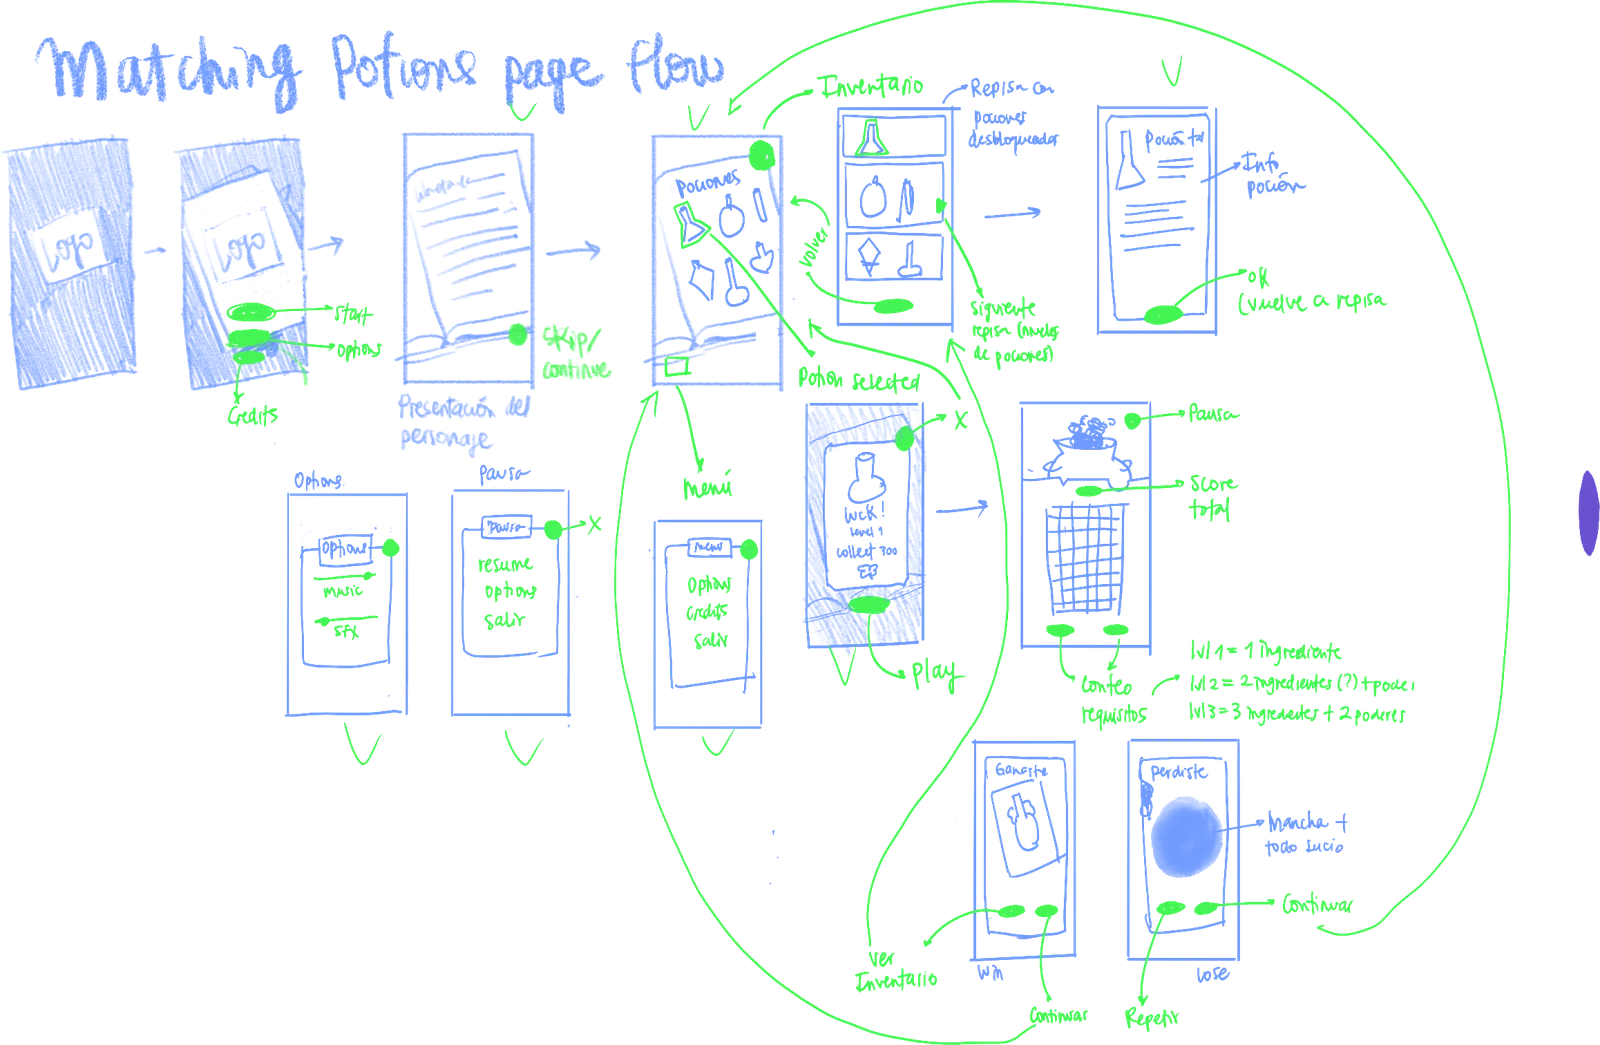
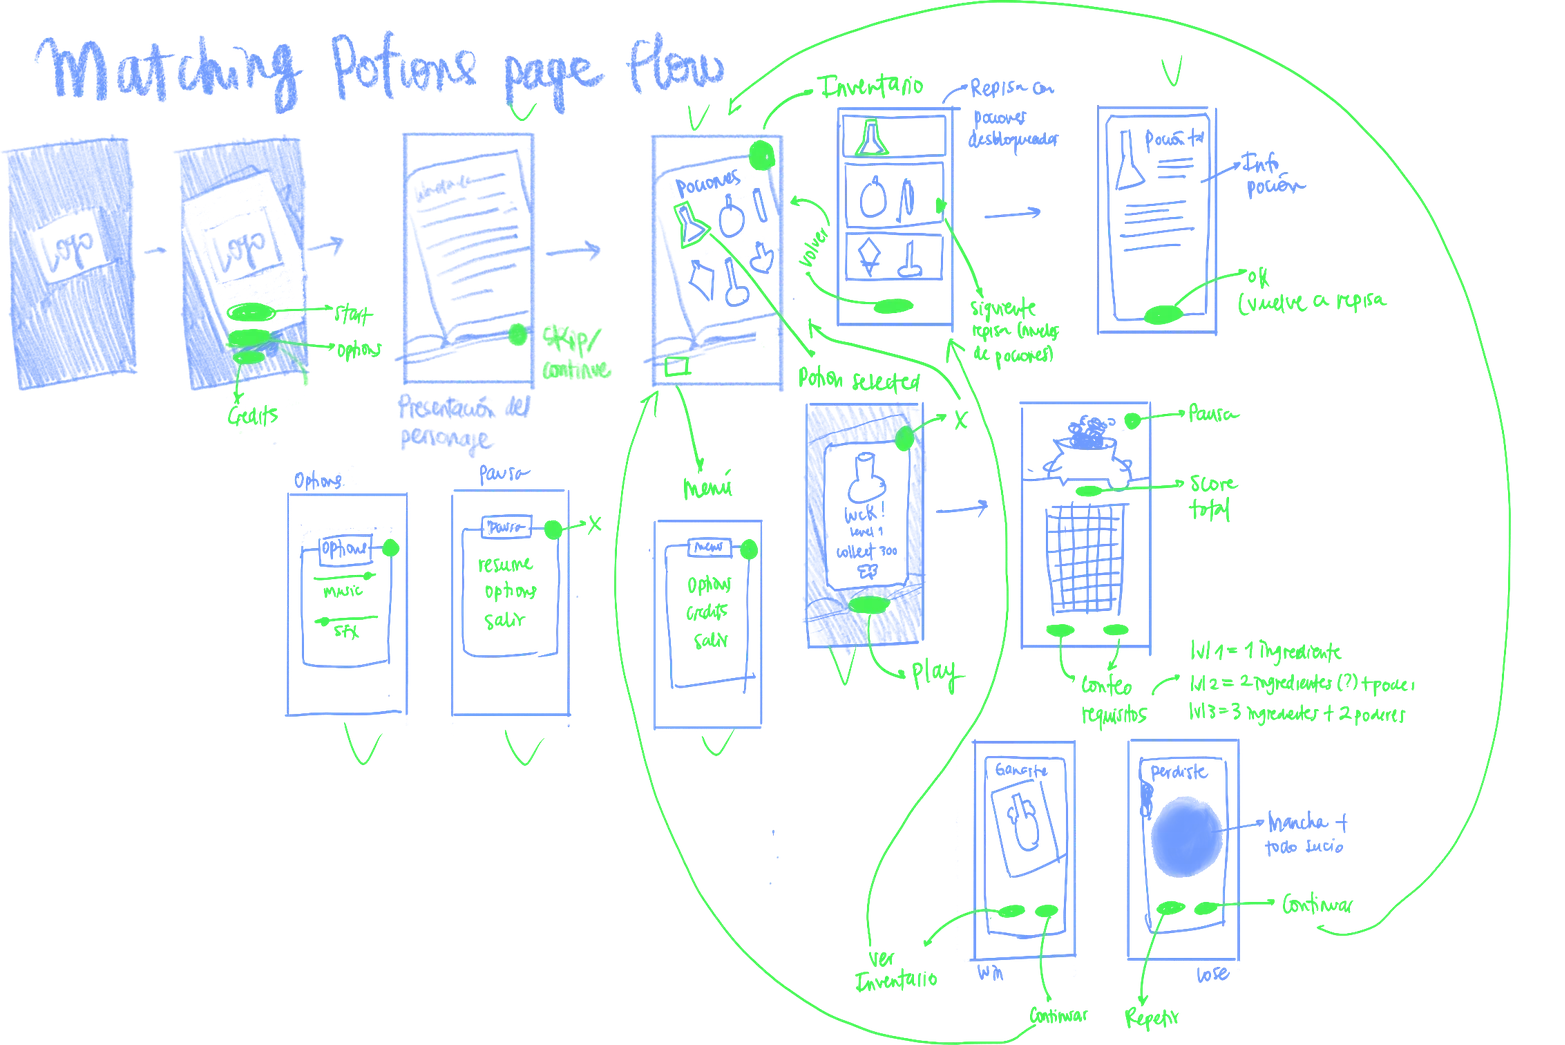
Matching Potions: every game screen, win/lose screen and the potion illustration opens on its own; remove stray oval from the wireframe

diff --git a/js/project-blocks.js b/js/project-blocks.js
@@ -58,8 +58,19 @@
           image: mp("shelves", 1144, 869, "Potion shelves"),
         },
         { type: "full", tone: "cream", image: mp("typography", 2400, 780, "Chaloops font for the titles, Providence Sans for body text, and the game’s colour palette: Mystic Amethyst #5D4AD9, Deep Midnight #272559, Lapis Powder #0A3EA6, #5CB6F9, #592202 and #CE5936") },
-        { type: "full", tone: "cream", flat: true, image: mp("game-screens", 2400, 1063, "Game screens: intro journal, potions selection, Elixir of Clarity recipe, the potion shelf and the Dew of Eternity identification card") },
-        { type: "full", tone: "cream", image: mp("win-lose", 2400, 1138, "Win, lose and gameplay screens next to the potion illustration: Ohhh… nice soup, the Match-3 board and Pure magic!") },
+        { type: "full", tone: "cream", flat: true, spots: [
+            { src: "assets/projects/matching-potions/c/gs-1.webp", alt: "Intro: the alchemy journal", bg: "#9ba9f5", x: 6.25, y: 21.94, w: 16.81, h: 73.51 },
+            { src: "assets/projects/matching-potions/c/gs-2.webp", alt: "Potions selection, level 2", bg: "#9ba9f5", x: 25.0, y: 14.42, w: 15.62, h: 72.41 },
+            { src: "assets/projects/matching-potions/c/gs-3.webp", alt: "Elixir of Clarity recipe", bg: "#9ba9f5", x: 42.36, y: 23.67, w: 15.14, h: 71.79 },
+            { src: "assets/projects/matching-potions/c/gs-4.webp", alt: "The potion shelf", bg: "#9ba9f5", x: 59.51, y: 16.93, w: 16.04, h: 72.73 },
+            { src: "assets/projects/matching-potions/c/gs-5.webp", alt: "Dew of Eternity identification card", bg: "#9ba9f5", x: 77.29, y: 20.53, w: 16.46, h: 73.2 },
+          ], image: mp("game-screens", 2400, 1063, "Game screens: intro journal, potions selection, Elixir of Clarity recipe, the potion shelf and the Dew of Eternity identification card") },
+        { type: "full", tone: "cream", spots: [
+            { src: "assets/projects/matching-potions/c/wl-lose.webp", alt: "Lose screen: Ohhh… nice soup", bg: "#9ba9f5", x: 29.79, y: 11.57, w: 22.71, h: 88.43 },
+            { src: "assets/projects/matching-potions/c/wl-game.webp", alt: "Match-3 gameplay", bg: "#9ba9f5", x: 54.93, y: 14.79, w: 18.68, h: 82.72 },
+            { src: "assets/projects/matching-potions/c/wl-win.webp", alt: "Win screen: Pure magic!", bg: "#9ba9f5", x: 76.04, y: 11.57, w: 22.71, h: 88.43 },
+            { src: "assets/projects/matching-potions/c/potion-cluster.webp", alt: "Prosperity on a Jar identification card and potion", bg: "#9ba9f5", x: 3.82, y: 17.57, w: 24.17, h: 64.86 },
+          ], image: mp("win-lose", 2400, 1138, "Win, lose and gameplay screens next to the potion illustration: Ohhh… nice soup, the Match-3 board and Pure magic!") },
         {
           type: "feature", tone: "night",
           image: mp("ui-toolkit", 1750, 1020, "UI toolkit: buttons, bars, stars and potion bottles"),
@@ -69,7 +80,7 @@
           title: "Sketched Wireframe & user flow",
           text: "After various iterations, we came to a flow that made sense and felt natural:",
           steps: ["Username input", "Potions selection", "Game", "Shelf", "Lose / Win"],
-          image: mp("wireframe", 1600, 1045, "Hand-sketched wireframe of the game screens"),
+          image: mp("wireframe", 1565, 1045, "Hand-sketched wireframe of the game screens"),
         },
         { type: "video", tone: "night", title: "Matching Potions gameplay video", src: "https://player.vimeo.com/video/1177791247?h=c8d50ffe95&dnt=1" },
         { type: "full", tone: "night", image: mp("key-art", 1920, 1080, "Matching Potions key art") },

diff --git a/js/project.js b/js/project.js
@@ -99,7 +99,7 @@
         <div class="cb-center rv">${head(b.title)}${para(b.text)}${b.note ? `<p class="cb-note">${b.note}</p>` : ""}</div>`,
       video: (b) => `
         <div class="cb-video rv"><iframe title="${b.title}" src="${b.src}" loading="lazy" frameborder="0" referrerpolicy="strict-origin-when-cross-origin" allow="autoplay; fullscreen; picture-in-picture; clipboard-write; encrypted-media; web-share" allowfullscreen></iframe></div>`,
-      full: (b) => `<figure class="cb-full rv">${pic(b.image)}</figure>`,
+      full: (b) => `<figure class="cb-full rv ${b.spots ? "has-spots" : ""}">${pic(b.image, b.spots ? "no-lb" : "")}${(b.spots || []).map((s) => `<button type="button" class="hs" data-full="${s.src}" data-alt="${s.alt}" data-bg="${s.bg || ""}" aria-label="Open: ${s.alt}" style="left:${s.x}%;top:${s.y}%;width:${s.w}%;height:${s.h}%"></button>`).join("")}</figure>`,
     };
     return blocks
       .map((b, i) => {
@@ -229,18 +229,18 @@
 
   // every image of the case study opens bigger (click / Enter), with arrows to move between them
   safe(() => {
-    const imgs = () => [...document.querySelectorAll(".cb img:not(.no-lb), .cs-section img")];
+    const imgs = () => [...document.querySelectorAll(".cb img:not(.no-lb), .cb .hs, .cs-section img")];
     let box, cur = 0, opener = null;
     const show = (i) => {
       const list = imgs(); cur = (i + list.length) % list.length;
       const el = list[cur];
       const big = box.querySelector("img");
-      big.src = el.currentSrc || el.src;
-      big.alt = el.alt || "";
+      big.src = el.dataset.full || el.currentSrc || el.src;
+      big.alt = el.dataset.alt || el.alt || "";
       // cut-outs (transparent images) open on the colour of their own section, so they stay readable
       const sec = el.closest(".cb-block");
-      const bg = sec ? sec.style.getPropertyValue("--bg") : "";
-      const cut = el.classList.contains("cb-cut") && bg;
+      const bg = el.dataset.bg || (sec ? sec.style.getPropertyValue("--bg") : "");
+      const cut = (el.classList.contains("cb-cut") || el.dataset.bg) && bg;
       big.style.background = cut ? bg : "";
       big.style.padding = cut ? "clamp(14px, 2.4vw, 36px)" : "";
       big.style.boxSizing = "border-box";
@@ -272,7 +272,7 @@
       addEventListener("keydown", onKey);
       box.querySelector(".lb-close").focus();
     };
-    root.addEventListener("click", (e) => { const el = e.target.closest(".cb img:not(.no-lb), .cs-section img"); if (el) open(el); });
+    root.addEventListener("click", (e) => { const el = e.target.closest(".cb img:not(.no-lb), .cb .hs, .cs-section img"); if (el) open(el); });
     imgs().forEach((el) => { el.tabIndex = 0; el.setAttribute("role", "button"); el.addEventListener("keydown", (e) => { if (e.key === "Enter") open(el); }); });
   }, "lightbox");
 

diff --git a/project.html b/project.html
@@ -12,7 +12,7 @@
   <!-- Tumb, licensed through Maria's Adobe Fonts (Creative Cloud) web project -->
   <link rel="preconnect" href="https://use.typekit.net" crossorigin />
   <link rel="stylesheet" href="https://use.typekit.net/sxu4bkt.css" />
-  <link rel="stylesheet" href="css/styles.css?v=202611121625" />
+  <link rel="stylesheet" href="css/styles.css?v=202611121627" />
 </head>
 <body>
   <svg width="0" height="0" style="position:absolute" aria-hidden="true">
@@ -35,8 +35,8 @@
     <a href="#top" onclick="scrollTo({top:0,behavior:'smooth'});return false;">Back to top ↑</a>
   </footer>
 
-  <script defer src="js/projects.js?v=202611121625"></script>
-  <script defer src="js/project-blocks.js?v=202611121625"></script>
-  <script defer src="js/project.js?v=202611121625"></script>
+  <script defer src="js/projects.js?v=202611121627"></script>
+  <script defer src="js/project-blocks.js?v=202611121627"></script>
+  <script defer src="js/project.js?v=202611121627"></script>
 </body>
 </html>

diff --git a/css/styles.css b/css/styles.css
@@ -901,6 +901,10 @@ body.lb-open { overflow: hidden; }
 .cb-video iframe { display: block; width: 100%; height: 100%; border: 0; }
 .cb-full-block { padding: 0; }
 .cb-flat { border-bottom: 0; }
+/* invisible click areas over a composed image: each opens its own piece in the viewer */
+.cb-full.has-spots { position: relative; }
+.cb-full .hs { position: absolute; padding: 0; border: 0; background: transparent; cursor: zoom-in; border-radius: 18px; transition: background .25s, box-shadow .25s; }
+.cb-full .hs:hover, .cb-full .hs:focus-visible { background: rgba(255, 255, 255, .14); box-shadow: 0 0 0 3px rgba(255, 255, 255, .55) inset; outline: none; }
 .cb-full-block > * { max-width: none; }
 
 /* reveal on scroll (same rhythm as the rest of the site) */

diff --git a/index.html b/index.html
@@ -13,7 +13,7 @@
   <!-- Tumb, licensed through Maria's Adobe Fonts (Creative Cloud) web project -->
   <link rel="preconnect" href="https://use.typekit.net" crossorigin />
   <link rel="stylesheet" href="https://use.typekit.net/sxu4bkt.css" />
-  <link rel="stylesheet" href="css/styles.css?v=202611121625" />
+  <link rel="stylesheet" href="css/styles.css?v=202611121627" />
 </head>
 <body>
 
@@ -217,7 +217,7 @@
     <a href="#top">Back to top ↑</a>
   </footer>
 
-  <script defer src="js/projects.js?v=202611121625"></script>
-  <script defer src="js/main.js?v=202611121625"></script>
+  <script defer src="js/projects.js?v=202611121627"></script>
+  <script defer src="js/main.js?v=202611121627"></script>
 </body>
 </html>
